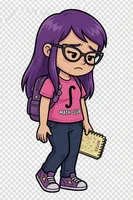
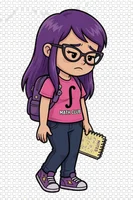
fix: character transparency, bigger nerds, slower death fade
- Remove near-white background from character PNGs (threshold 240)
- Characters now render with true transparency (4-channel WebP)
- Nerd size: 50px → 90px (more visible)
- Death fade: 500ms → 2000ms (enemies stay visible longer)
- Re-optimized all art with alpha preservation

diff --git a/src/renderer/Renderer.js b/src/renderer/Renderer.js
@@ -203,14 +203,14 @@ export class Renderer {
       const hp = session.targetHP[t.id] ?? 1;
       const dead = hp <= 0;
 
-      // Fade out over 500ms on kill
+      // Fade out over 2000ms on kill
       let opacity = 1;
       if (dead) {
         const kt = session.killTime?.[t.id];
         if (kt) {
           const elapsed = now - kt;
-          if (elapsed >= 500) continue; // fully faded
-          opacity = 1 - elapsed / 500;
+          if (elapsed >= 2000) continue; // fully faded
+          opacity = 1 - elapsed / 2000;
         }
       }
 
@@ -303,7 +303,7 @@ export class Renderer {
     const img = this._sprites?.get(`${charName}_${stateName}`);
     if (!img) return;
 
-    const drawH = 50;
+    const drawH = 90;
     const drawW = drawH * (img.naturalWidth / img.naturalHeight);
     ctx.save();
     ctx.setLineDash([]);
